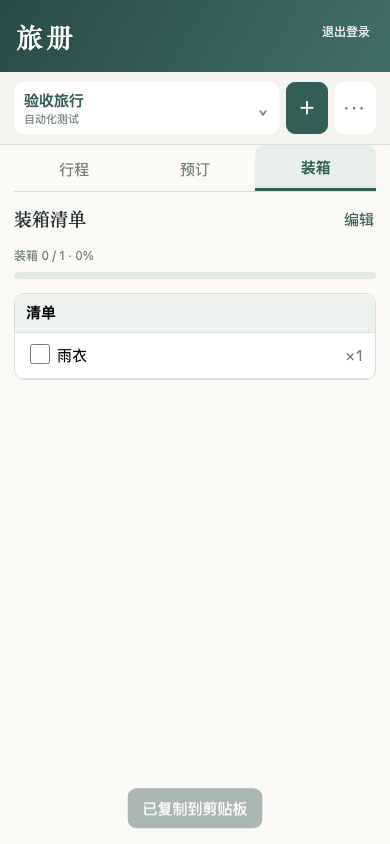
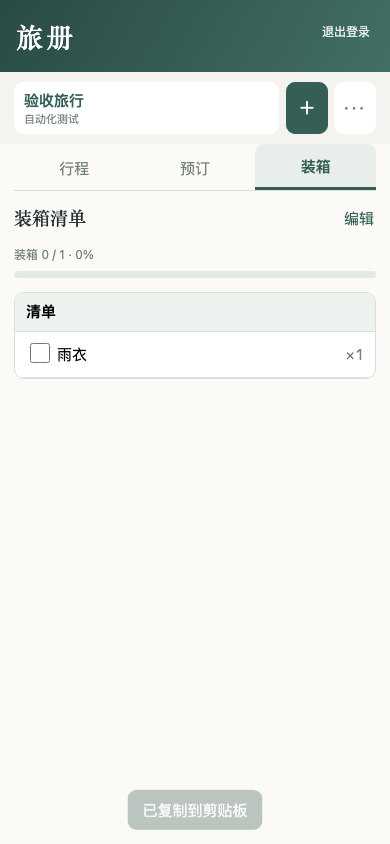
polish: simplify mobile trip navigation

diff --git a/style.css b/style.css
@@ -150,8 +150,9 @@ header #logout:hover{border-color:#fff;background:#ffffff20}
   header h1{font-size:27px;line-height:1;letter-spacing:.12em}
   header #logout{top:18px;right:15px;border:0;background:transparent;padding:5px;color:#e8f0ed;font-size:12px}
   main{min-height:calc(100vh - 72px)}
-  aside{padding:10px 14px;border-bottom:1px solid var(--line);overflow:visible}
+  aside{padding:10px 14px;border-bottom:0;overflow:visible}
   .aside-title{display:none}
+  nav button.active::after{content:none}
   .trip-switcher{position:relative;display:grid;grid-template-columns:minmax(0,1fr) auto;gap:7px;align-items:stretch;overflow:visible}
   .trip-actions,.trip-actions .menu{overflow:visible}
   .trip-actions .menu-panel{z-index:50}
